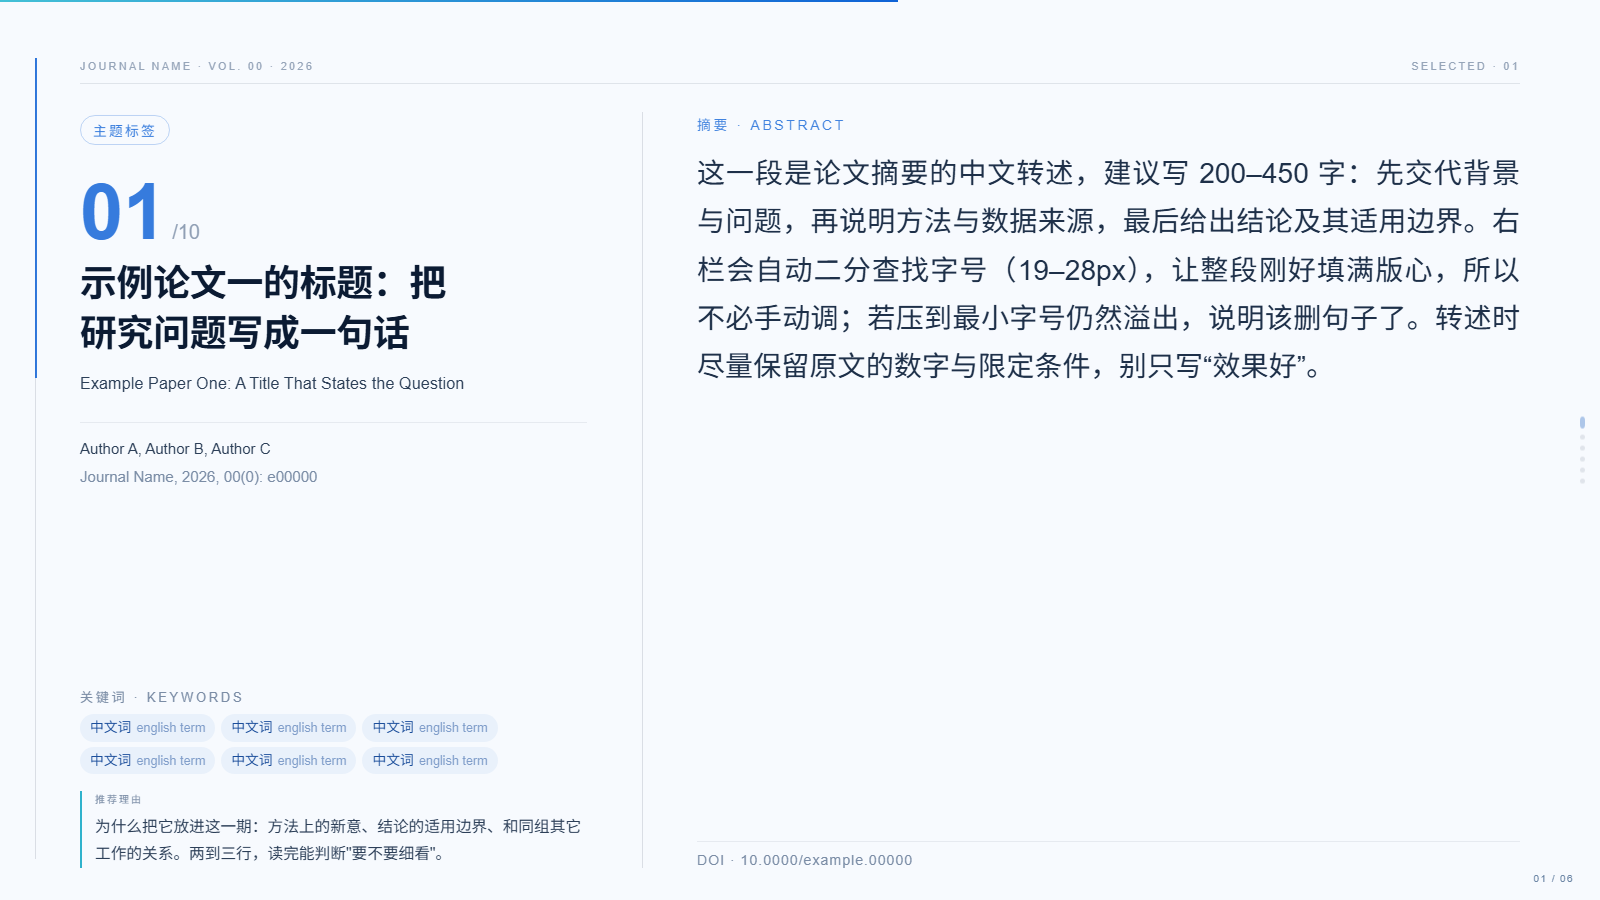
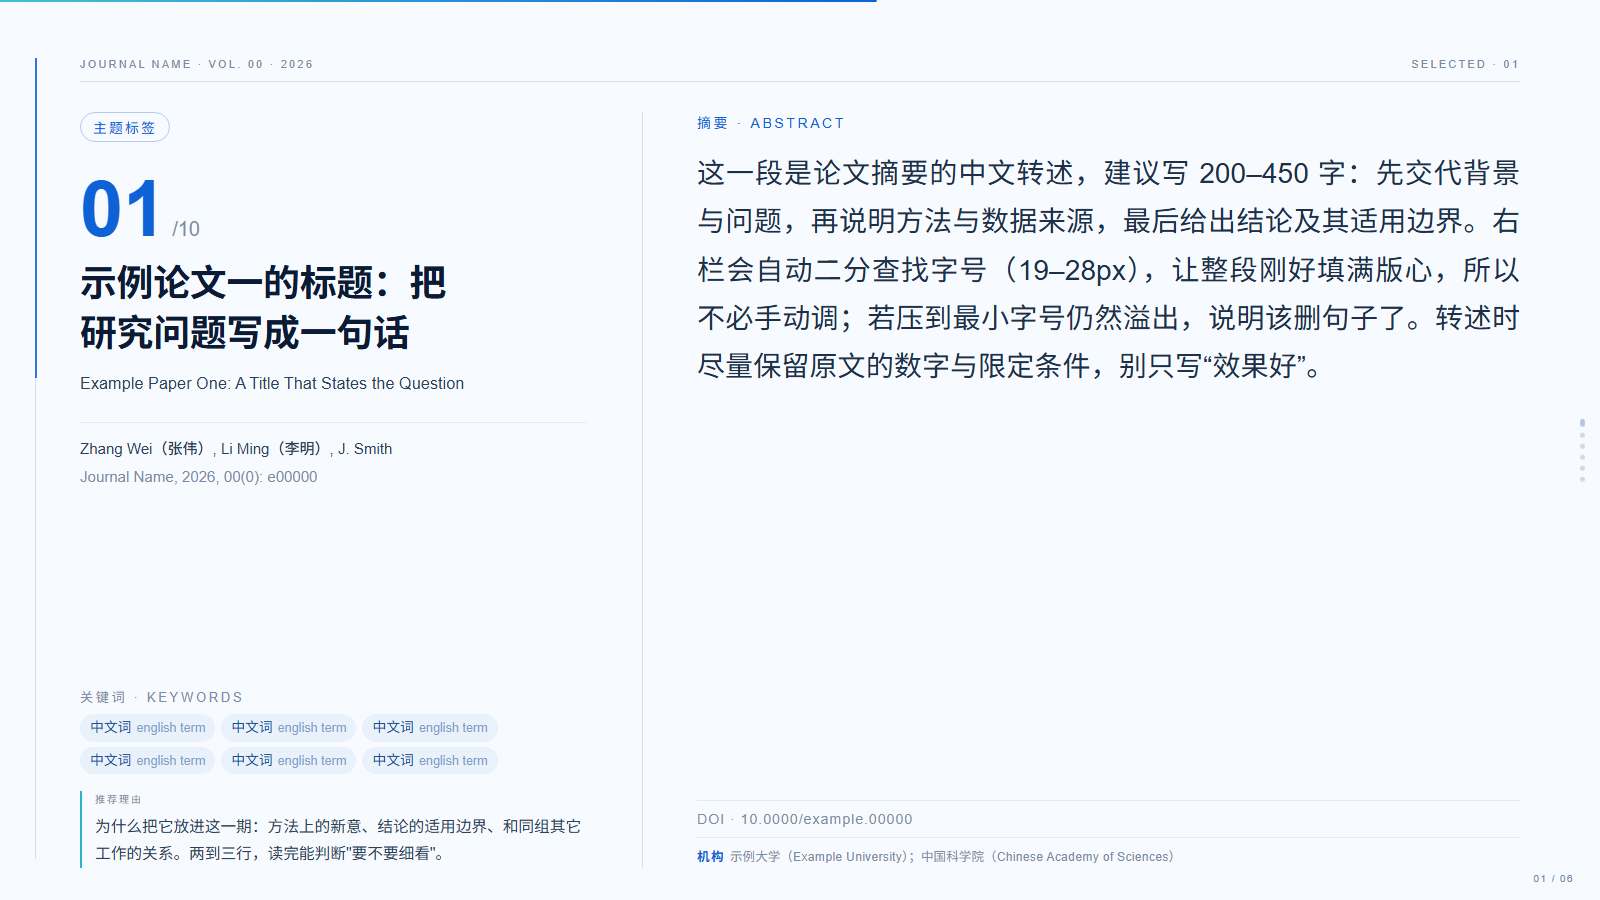
feat: 论文页新增作者与机构（.aff），机构用中文译名+英文原文，作者保留原文拼写

diff --git a/assets/template.html b/assets/template.html
@@ -111,6 +111,10 @@ body.on-dark .jsw button.on{color:#EAF3FD}
 .abs{font-size:20px;line-height:1.95;color:#1E3049;text-align:justify;text-justify:inter-ideograph;letter-spacing:.004em}
 .doi{margin-top:auto;padding-top:10px;border-top:1px solid var(--line2);font-size:clamp(11.5px,.9vw,33px);letter-spacing:.06em;color:var(--mute);
   font-variant-numeric:tabular-nums;word-break:break-all}
+.aff{margin-top:10px;padding-top:9px;border-top:1px solid var(--line2);
+  font-size:clamp(10.5px,.78vw,30px);line-height:1.62;color:var(--mute);letter-spacing:.01em}
+.aff i{font-style:normal;color:var(--azure);font-weight:600;margin-right:5px;letter-spacing:.12em}
+.aff b{font-weight:500;color:var(--ink2)}
 
 /* ---------- reveal ---------- */
 .rv{opacity:0;transform:translate3d(0,18px,0);
@@ -382,7 +386,7 @@ body.on-dark .pg{color:#6D87A6}
         <div class="num rv" style="--i:0"><b>01</b><span>/10</span></div>
         <h3 class="zh rv" style="--i:1">示例论文一的标题：把研究问题写成一句话</h3>
         <p class="en rv" style="--i:1">Example Paper One: A Title That States the Question</p>
-        <div class="au rv" style="--i:2"><b>Author A, Author B, Author C</b><br>Journal Name, 2026, 00(0): e00000</div>
+        <div class="au rv" style="--i:2"><b>Zhang Wei（张伟）, Li Ming（李明）, J. Smith</b><br>Journal Name, 2026, 00(0): e00000</div>
         <div class="klabel rv" style="--i:2">关键词 · Keywords</div>
         <div class="kws rv" style="--i:3"><span class="kw">中文词<i>english term</i></span><span class="kw">中文词<i>english term</i></span><span class="kw">中文词<i>english term</i></span><span class="kw">中文词<i>english term</i></span><span class="kw">中文词<i>english term</i></span><span class="kw">中文词<i>english term</i></span></div>
         <div class="note rv" style="--i:4"><em>推荐理由</em>为什么把它放进这一期：方法上的新意、结论的适用边界、和同组其它工作的关系。两到三行，读完能判断"要不要细看"。</div>
@@ -391,6 +395,7 @@ body.on-dark .pg{color:#6D87A6}
         <div class="lbl rv" style="--i:0">摘要 · Abstract</div>
         <div class="abswrap"><p class="abs rv" style="--i:1">这一段是论文摘要的中文转述，建议写 200–450 字：先交代背景与问题，再说明方法与数据来源，最后给出结论及其适用边界。右栏会自动二分查找字号（19–28px），让整段刚好填满版心，所以不必手动调；若压到最小字号仍然溢出，说明该删句子了。转述时尽量保留原文的数字与限定条件，别只写“效果好”。</p></div>
         <div class="doi rv" style="--i:2">DOI · 10.0000/example.00000</div>
+        <div class="aff rv" style="--i:3"><i>机构</i>示例大学（Example University）；中国科学院（Chinese Academy of Sciences）</div>
       </div>
     </div>
   </div>
@@ -409,7 +414,7 @@ body.on-dark .pg{color:#6D87A6}
         <div class="num rv" style="--i:0"><b>02</b><span>/10</span></div>
         <h3 class="zh rv" style="--i:1">示例论文二的标题：方法与场景都写进去</h3>
         <p class="en rv" style="--i:1">Example Paper Two: Method and Setting</p>
-        <div class="au rv" style="--i:2"><b>Author D, Author E</b><br>Journal Name, 2026, 00(1): e00001</div>
+        <div class="au rv" style="--i:2"><b>Chen Hao（陈浩）, A. García</b><br>Journal Name, 2026, 00(1): e00001</div>
         <div class="klabel rv" style="--i:2">关键词 · Keywords</div>
         <div class="kws rv" style="--i:3"><span class="kw">中文词<i>english term</i></span><span class="kw">中文词<i>english term</i></span><span class="kw">中文词<i>english term</i></span><span class="kw">中文词<i>english term</i></span></div>
         <div class="note rv" style="--i:4"><em>推荐理由</em>和第二篇一样，写清"为什么值得看"，不要复述摘要。</div>
@@ -418,6 +423,7 @@ body.on-dark .pg{color:#6D87A6}
         <div class="lbl rv" style="--i:0">摘要 · Abstract</div>
         <div class="abswrap"><p class="abs rv" style="--i:1">第二篇的摘要转述写在这块。写作时把三件事说清楚就够了：做了什么、用了什么数据、得到什么结论。同一份模板里每页的摘要长度可以不同，右栏会各自按可用高度定字号，短摘要被放大、长摘要被缩小，最终视觉上每页都刚好填满，不必手工对齐。</p></div>
         <div class="doi rv" style="--i:2">DOI · 10.0000/example.00001</div>
+        <div class="aff rv" style="--i:3"><i>机构</i>示例理工大学（Example Institute of Technology）</div>
       </div>
     </div>
   </div>

diff --git a/references/markup.md b/references/markup.md
@@ -91,7 +91,7 @@
         <div class="num rv" style="--i:0"><b>01</b><span>/10</span></div>
         <h3 class="zh rv" style="--i:1">中文标题</h3>
         <p class="en rv" style="--i:1">English Title</p>
-        <div class="au rv" style="--i:2"><b>Author A, Author B</b><br>Journal, 2026, 00(0): e00000</div>
+        <div class="au rv" style="--i:2"><b>Zhang Wei（张伟）, Li Ming（李明）, J. Smith</b><br>Journal, 2026, 00(0): e00000</div>
         <div class="klabel rv" style="--i:2">关键词 · Keywords</div>
         <div class="kws rv" style="--i:3">
           <span class="kw">中文词<i>english term</i></span>
@@ -102,6 +102,7 @@
         <div class="lbl rv" style="--i:0">摘要 · Abstract</div>
         <div class="abswrap"><p class="abs rv" style="--i:1">摘要转述 200–450 字。</p></div>
         <div class="doi rv" style="--i:2">DOI · 10.0000/example.00000</div>
+        <div class="aff rv" style="--i:3"><i>机构</i>示例大学（Example University）；中国科学院（Chinese Academy of Sciences）</div>
       </div>
     </div>
   </div>
@@ -114,6 +115,8 @@
 - `.klabel` 有 `margin-top:auto`，关键词会被压到左栏底部，和右栏的 DOI 对齐成一条水平基线——**这是版式的一部分，不要删**。
 - `.note` 左侧那根青色竖线由 `border-left:2px solid var(--cyan)` 给出。
 - `.abs` 由脚本定字号；`.abswrap` 必须闭合。
+- **`.aff` 是机构行，放在 `.doi` 之后、是右栏最后一个元素**。`.doi` 靠 `margin-top:auto` 压到底，`.aff` 跟在它下面，形成"DOI 细线 + 机构"的收尾。格式固定为 `中文译名（English original）`，多个机构用 `；` 分隔，最多 6 个。
+- **作者用原文拼写**，不要音译猜测；只在能核实中文名时用 `Zhang Wei（张伟）` 的写法补注。海外作者不补中文。原文只有首字母缩写（`J. Smith`）就照原样抄。
 - 中文标题超过 2 行会让左栏变挤，超过 3 行基本放不下——控制在 39 字内。
 
 ---

diff --git a/SKILL.md b/SKILL.md
@@ -39,6 +39,7 @@ cp assets/template.html 我的汇报.html
 5. **`.abswrap` 必须闭合**：`<div class="abswrap"><p class="abs">…</p></div>` 漏掉 `</div>`，DOI 会被挤进 flex 行里变成竖排窄条。
 6. **图片内联**：封面照用 base64（宽 720px、JPEG q85 足够），保证单文件可拷走。
 7. **减少动态**已内置：`prefers-reduced-motion` 下入场/浮动/换页动画全部关闭，不要另加一套。
+8. **每页必须写作者与机构**（`.au` + `.aff`），这是 2026-11 之后的新要求。机构写成 `中文译名（English original）`，多个用 `；` 分隔；作者保留原文拼写，只在能核实中文名时写成 `Zhang Wei（张伟）`，**绝不音译猜名**。机构拿不到就写 `原文未列明`，不要编。
 
 ## 页面类型速查
 
@@ -52,7 +53,7 @@ cp assets/template.html 我的汇报.html
 <section class="slide refs" style="--p:100%">   <!-- 参考文献：.reflist > .ref -->
 ```
 
-论文页左栏顺序固定：`.topic`（主题胶囊）→ `.num`（01/10）→ `h3.zh` → `p.en` → `.au` → `.klabel` → `.kws` → `.note`（推荐理由）；右栏：`.lbl` → `.abswrap > p.abs` → `.doi`。
+论文页左栏顺序固定：`.topic`（主题胶囊）→ `.num`（01/10）→ `h3.zh` → `p.en` → `.au`（作者 + 期刊卷期）→ `.klabel` → `.kws` → `.note`（推荐理由）；右栏：`.lbl` → `.abswrap > p.abs` → `.doi` → `.aff`（机构，右栏最后一格）。
 
 ## 动效
 
